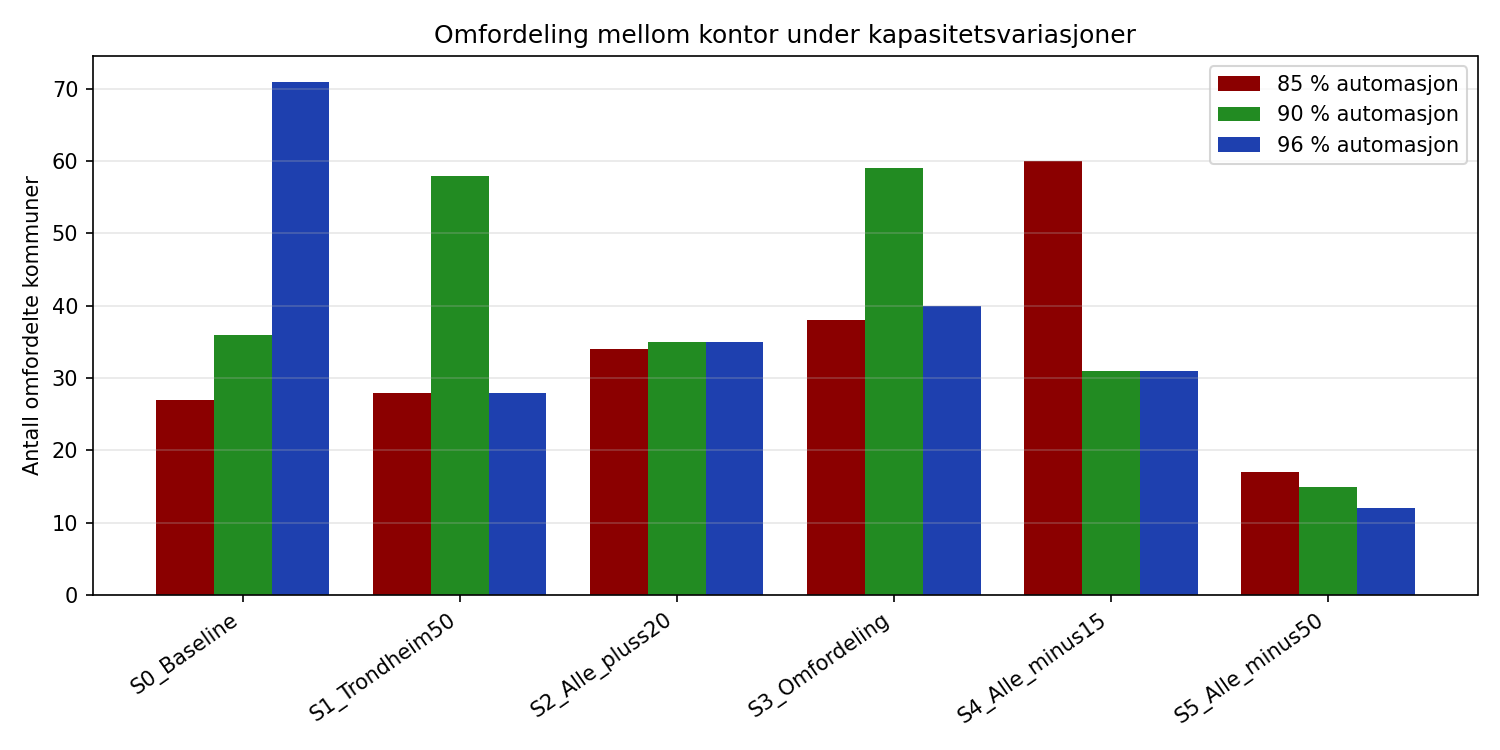
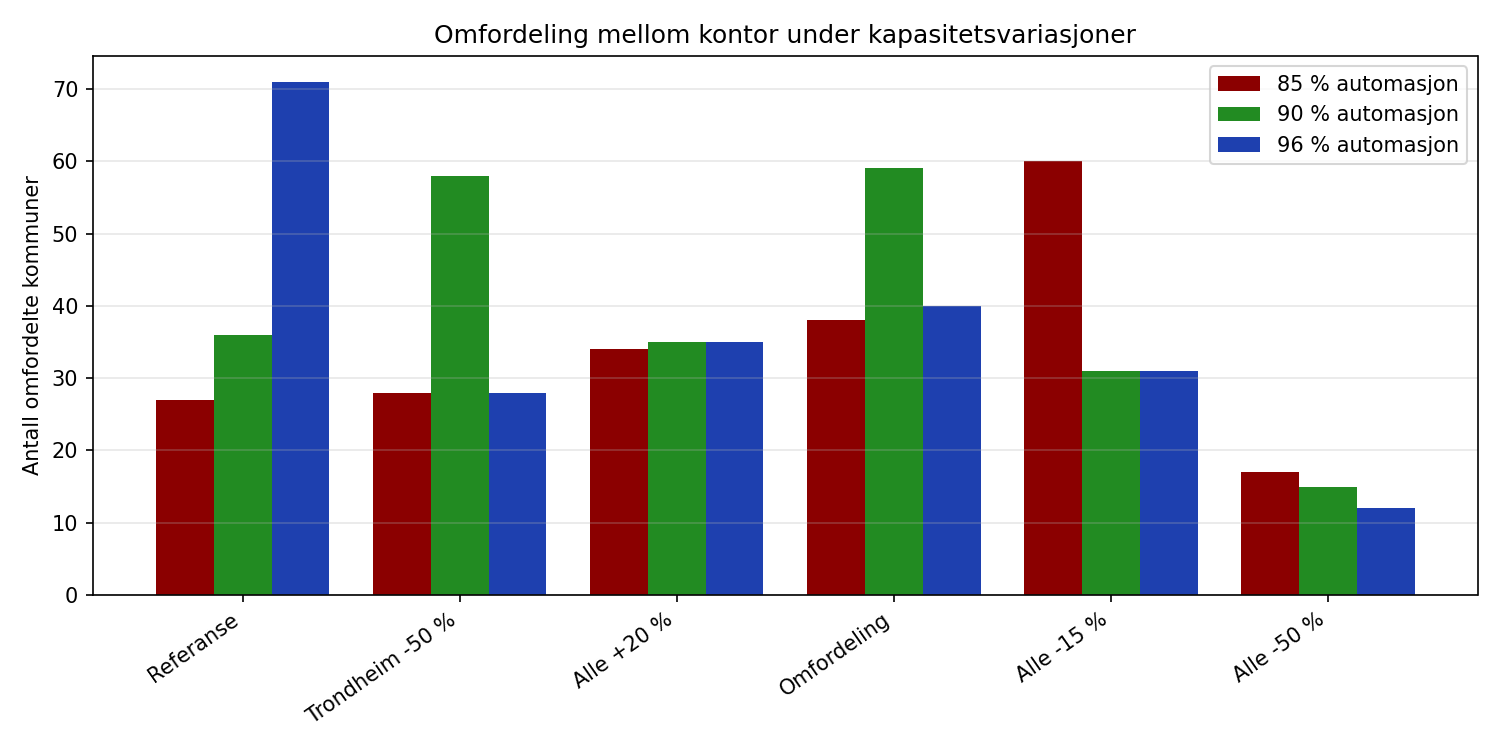
rapport: legg 2.x/3.x i innhold + bytt interne koder S0-S5 til beskrivende tekst
Fyller innholdsfortegnelsen med underseksjonene 2.1-2.4 og 3.1-3.3 (var
utelatt). Erstatter de interne arbeidskodene S0-S5, S5_Alle_minus50 og
AUTOMASJON_STD i brodteksten med beskrivende formuleringer, og gir figur
7.7/7.9 beskrivende x-akse-etiketter (Referanse, Trondheim -50 % osv.) via
ny VARIANT_NAVN-mapping. Ingen tall eller konklusjoner endret.

diff --git a/004 data/scripts/figurer_mip.py b/004 data/scripts/figurer_mip.py
@@ -44,9 +44,22 @@ SCENARIO_NAVN = {
     'Samferdsel_96': '96 % automasjon',
 }
 
+VARIANT_NAVN = {
+    'S0_Baseline': 'Referanse',
+    'S1_Trondheim50': 'Trondheim -50 %',
+    'S2_Alle_pluss20': 'Alle +20 %',
+    'S3_Omfordeling': 'Omfordeling',
+    'S4_Alle_minus15': 'Alle -15 %',
+    'S5_Alle_minus50': 'Alle -50 %',
+}
+
 
 def vis(scenario):
     return SCENARIO_NAVN.get(scenario, scenario)
+
+
+def vis_variant(variant):
+    return VARIANT_NAVN.get(variant, variant)
 
 
 def aar_format(mnd):
@@ -175,7 +188,7 @@ def fig18_kapasitet_sensitivitet():
             ax.text(i, r['Makespan_Aar'] + 0.05,
                     f'{r["Makespan_Aar"]:.2f}', ha='center', fontsize=8)
         ax.set_xticks(range(len(sub)))
-        ax.set_xticklabels(sub['Variant'], rotation=40, ha='right')
+        ax.set_xticklabels([vis_variant(v) for v in sub['Variant']], rotation=40, ha='right')
         ax.set_ylabel('Makespan (aar)')
         ax.set_title(vis(s))
         ax.grid(axis='y', alpha=0.3)
@@ -206,7 +219,7 @@ def fig19_omfordeling_varianter():
                sub['Kommuner_Omfordelt'], w,
                label=vis(s), color=FARGER.get(s, None))
     ax.set_xticks(x)
-    ax.set_xticklabels(varianter, rotation=35, ha='right')
+    ax.set_xticklabels([vis_variant(v) for v in varianter], rotation=35, ha='right')
     ax.set_ylabel('Antall omfordelte kommuner')
     ax.set_title('Omfordeling mellom kontor under kapasitetsvariasjoner')
     ax.legend()
